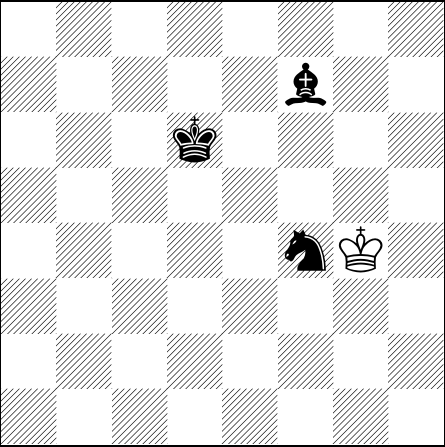
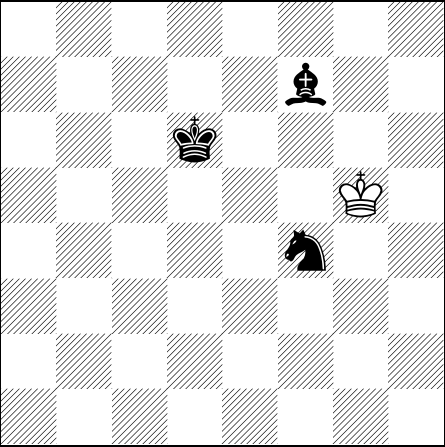
[automated] Regenerate text/pdf for chessboard

Changed region(s): [[0.7596, 0.3781, 0.8764, 0.6107]]

diff --git a/default_filepath.tex b/default_filepath.tex
@@ -13,6 +13,6 @@
 \normalsize%
 \setchessboard{showmover=false}%
 \newgame%
-\fenboard{8/5b2/3k4/8/5nK1/8/8/8 w - - 21 216}%
+\fenboard{8/5b2/3k4/6K1/5n2/8/8/8 b - - 22 216}%
 \chessboard%
 \end{document}
